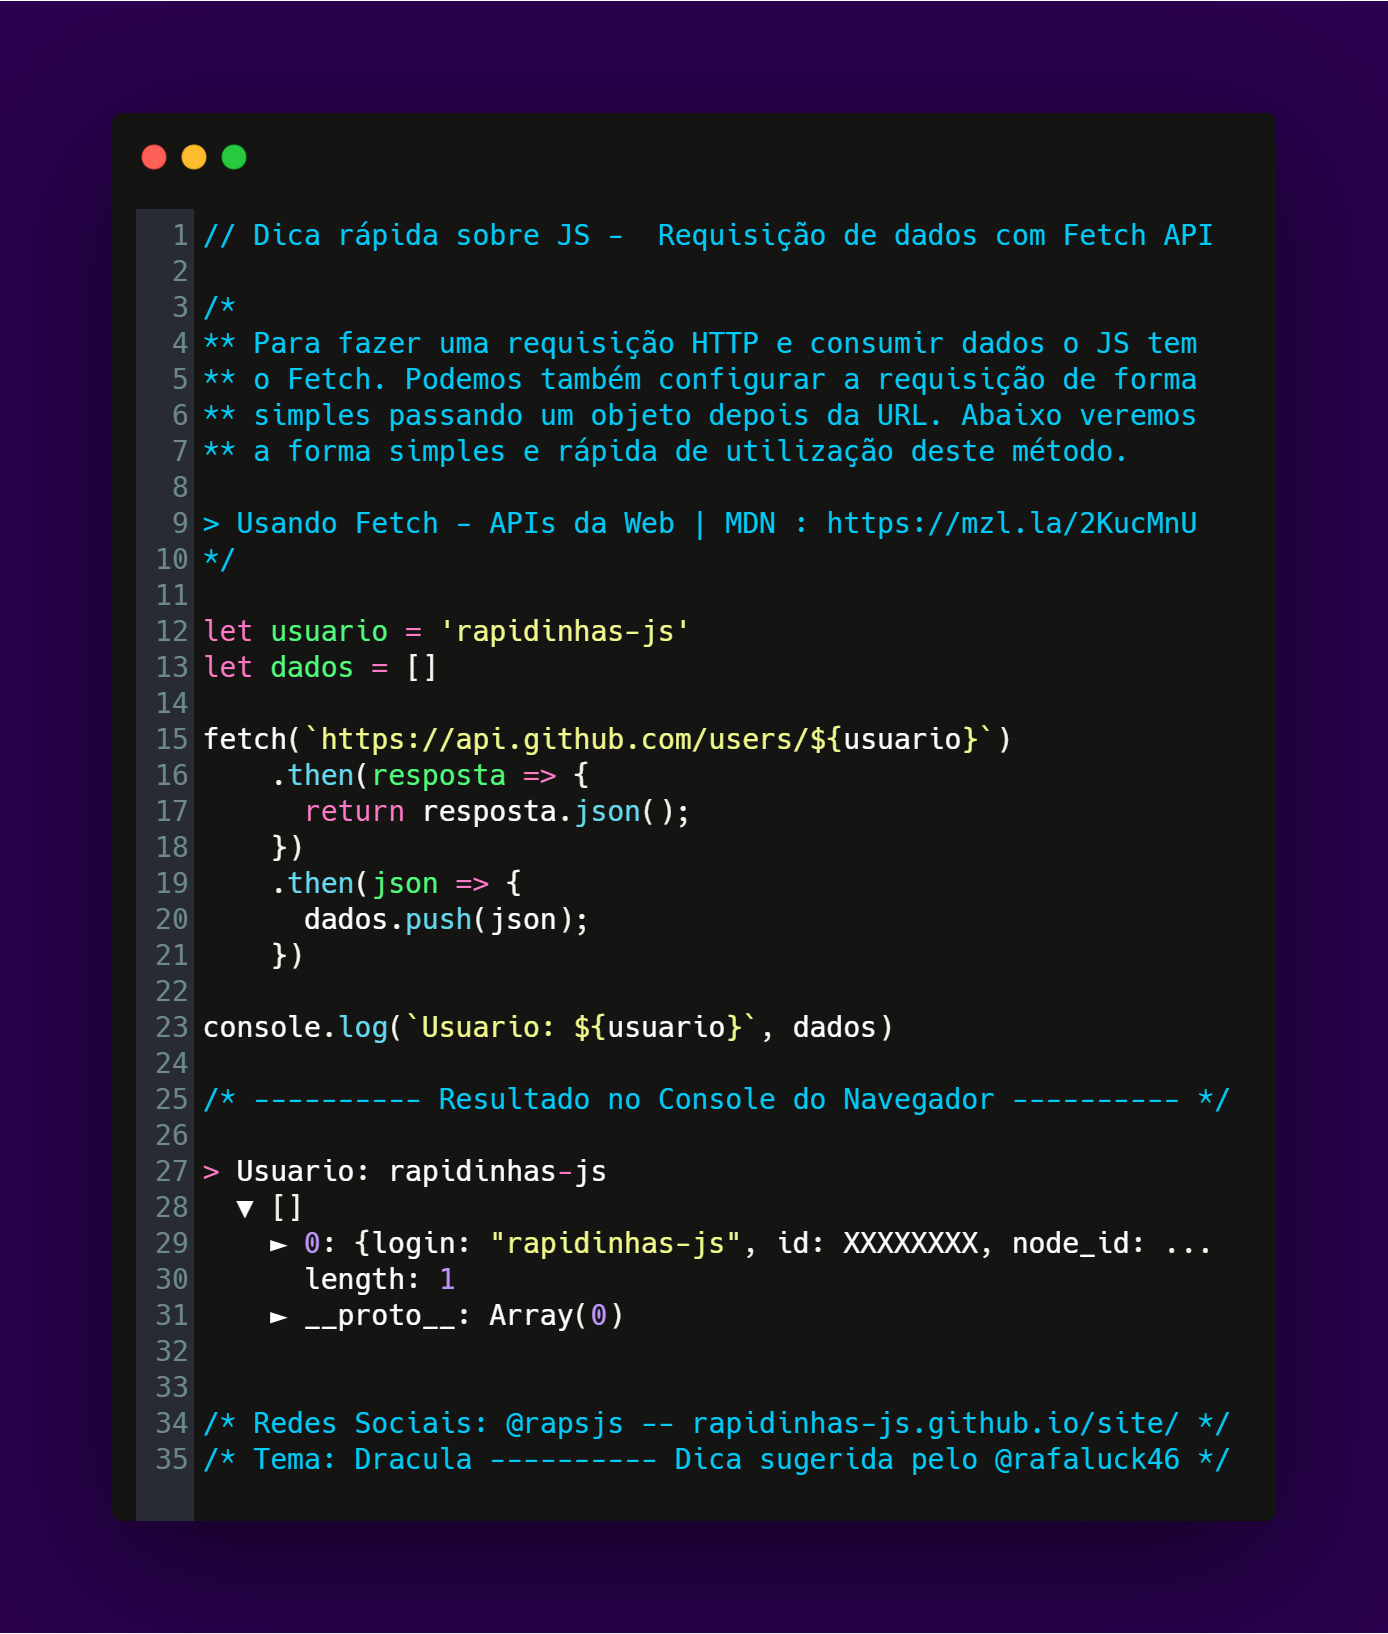
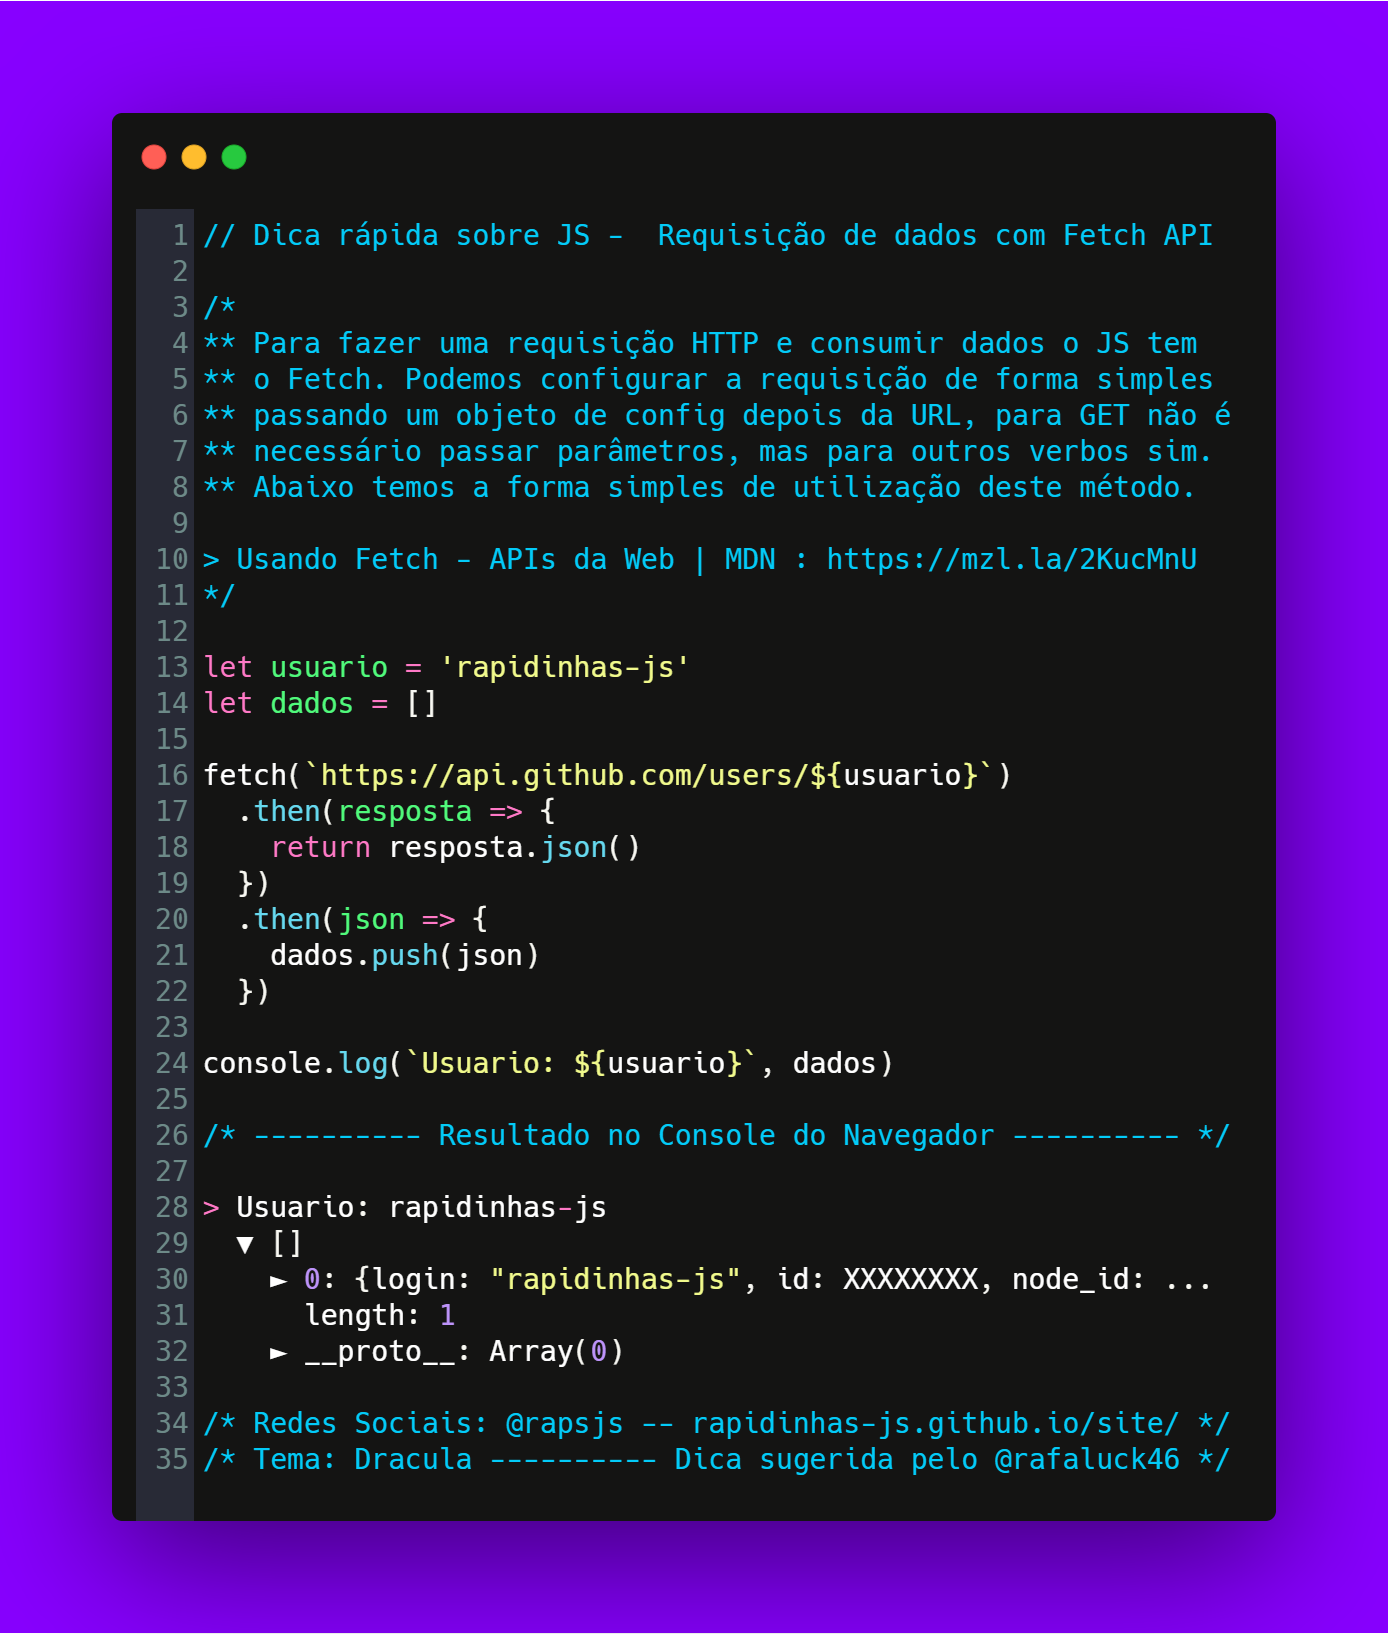
Corrigindo dica de Fetch

diff --git a/Dicas/RequisicaoFetch/RequisicaoFetch.js b/Dicas/RequisicaoFetch/RequisicaoFetch.js
@@ -1,0 +1,12 @@
+let usuario = 'rapidinhas-js'
+let dados = []
+
+fetch(`https://api.github.com/users/${usuario}`)
+  .then(resposta => {
+    return resposta.json()
+  })
+  .then(json => {
+    dados.push(json)
+  })
+
+console.log(`Usuario: ${usuario}`, dados)

diff --git a/Dicas/RequisicaoFetch/RequisicaoFetch.md b/Dicas/RequisicaoFetch/RequisicaoFetch.md
@@ -2,9 +2,10 @@
 
 /*
 ** Para fazer uma requisição HTTP e consumir dados o JS tem 
-** o Fetch. Podemos também configurar a requisição de forma
-** simples passando um objeto depois da URL. Abaixo veremos 
-** a forma simples e rápida de utilização deste método.
+** o Fetch. Podemos configurar a requisição de forma simples
+** passando um objeto de config depois da URL, para GET não é
+** necessário passar parâmetros, mas para outros verbos sim. 
+** Abaixo temos a forma simples de utilização deste método.
 
 > Usando Fetch - APIs da Web | MDN : https://mzl.la/2KucMnU
 */
@@ -13,12 +14,12 @@ let usuario = 'rapidinhas-js'
 let dados = []
 
 fetch(`https://api.github.com/users/${usuario}`)
-    .then(resposta => {
-      return resposta.json();
-    })
-    .then(json => {
-      dados.push(json);
-    })
+  .then(resposta => {
+    return resposta.json()
+  })
+  .then(json => {
+    dados.push(json)
+  })
 
 console.log(`Usuario: ${usuario}`, dados)
 
@@ -29,7 +30,6 @@ console.log(`Usuario: ${usuario}`, dados)
     ► 0: {login: "rapidinhas-js", id: XXXXXXXX, node_id: ...
       length: 1
 	► __proto__: Array(0)
-
           
 /* Redes Sociais: @rapsjs -- rapidinhas-js.github.io/site/ */
 /* Tema: Dracula ---------- Dica sugerida pelo @rafaluck46 */
